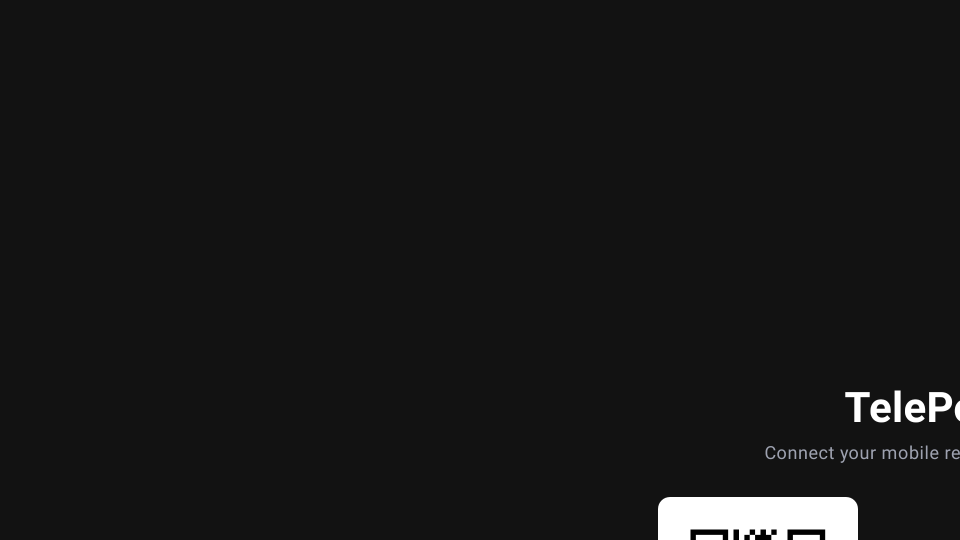
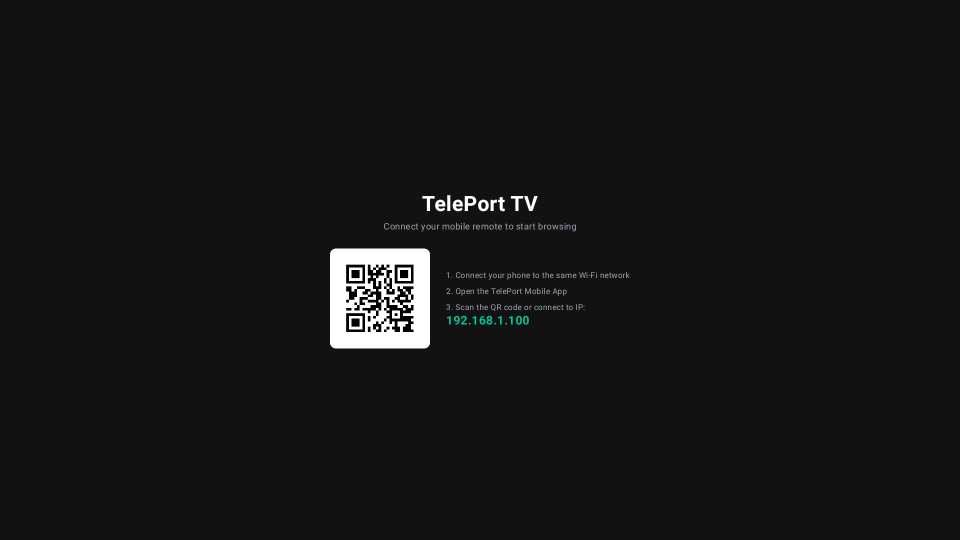
docs: auto-update changelog and screenshots [skip ci]

diff --git a/CHANGELOG.md b/CHANGELOG.md
@@ -2,6 +2,12 @@
 
 ## [2026-05-29] - Automated Release
 
+- fix(test): correct Robolectric qualifier to mdpi for TV pairing screen to prevent cropping (2e6e832) by Raviteja Kamalapuram
+- docs: fix broken logo icon on GitHub Pages (ce45d0e) by Raviteja Kamalapuram
+
+
+## [2026-05-29] - Automated Release
+
 - fix(mobile): implement custom rotatable QrScanActivity with close button (c25aff0) by Raviteja Kamalapuram
 
 
